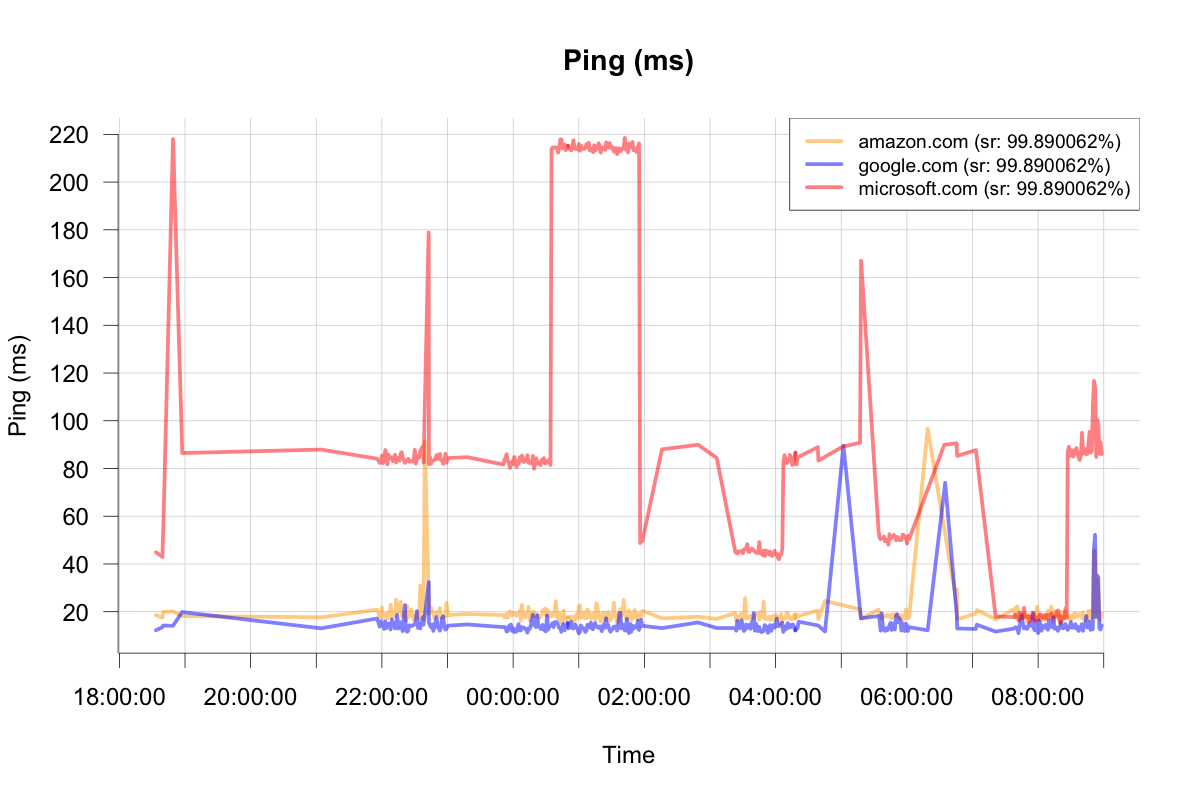
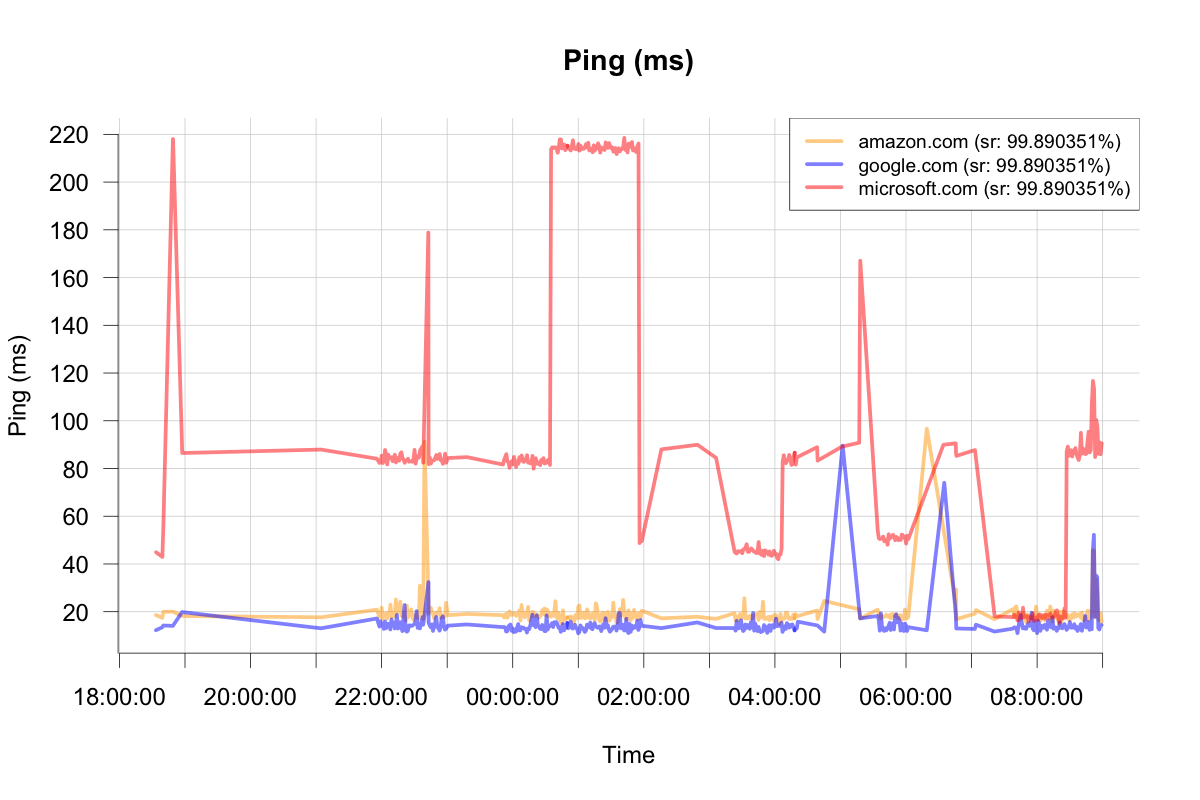
update netmon

diff --git a/netmon/index.html b/netmon/index.html
@@ -1,10 +1,7 @@
-Network Monitor - last updated Sat Oct 19 08:58:11 EDT 2024
+Network Monitor - last updated Sat Oct 19 08:59:10 EDT 2024
 ![Ping](netmon.png)
 ```
 time                 site           snd  rec  min_ms   avg_ms   max_ms   sd
-2024-10-19 08:39:00  google.com     4    4    10.987   13.441   16.100   2.024
-2024-10-19 08:39:04  amazon.com     4    4    16.240   19.034   20.764   1.701
-2024-10-19 08:39:07  microsoft.com  4    4    82.634   85.684   87.849   1.984
 2024-10-19 08:40:00  google.com     4    4    10.764   14.818   18.226   2.966
 2024-10-19 08:40:03  amazon.com     4    4    15.420   17.412   19.031   1.516
 2024-10-19 08:40:07  microsoft.com  4    4    88.283   94.956   113.541  10.735
@@ -62,6 +59,9 @@ time                 site           snd  rec  min_ms   avg_ms   max_ms   sd
 2024-10-19 08:58:01  google.com     4    4    12.124   14.331   16.155   1.572
 2024-10-19 08:58:04  amazon.com     4    4    15.541   19.413   24.637   3.436
 2024-10-19 08:58:07  microsoft.com  4    4    83.377   85.982   89.669   2.417
+2024-10-19 08:59:00  google.com     4    4    11.560   14.420   17.764   2.293
+2024-10-19 08:59:03  amazon.com     4    4    14.420   15.782   17.363   1.239
+2024-10-19 08:59:07  microsoft.com  4    4    84.292   90.543   98.692   5.235
 ```
 
 <!-- This will refresh the page every 60 seconds -->
